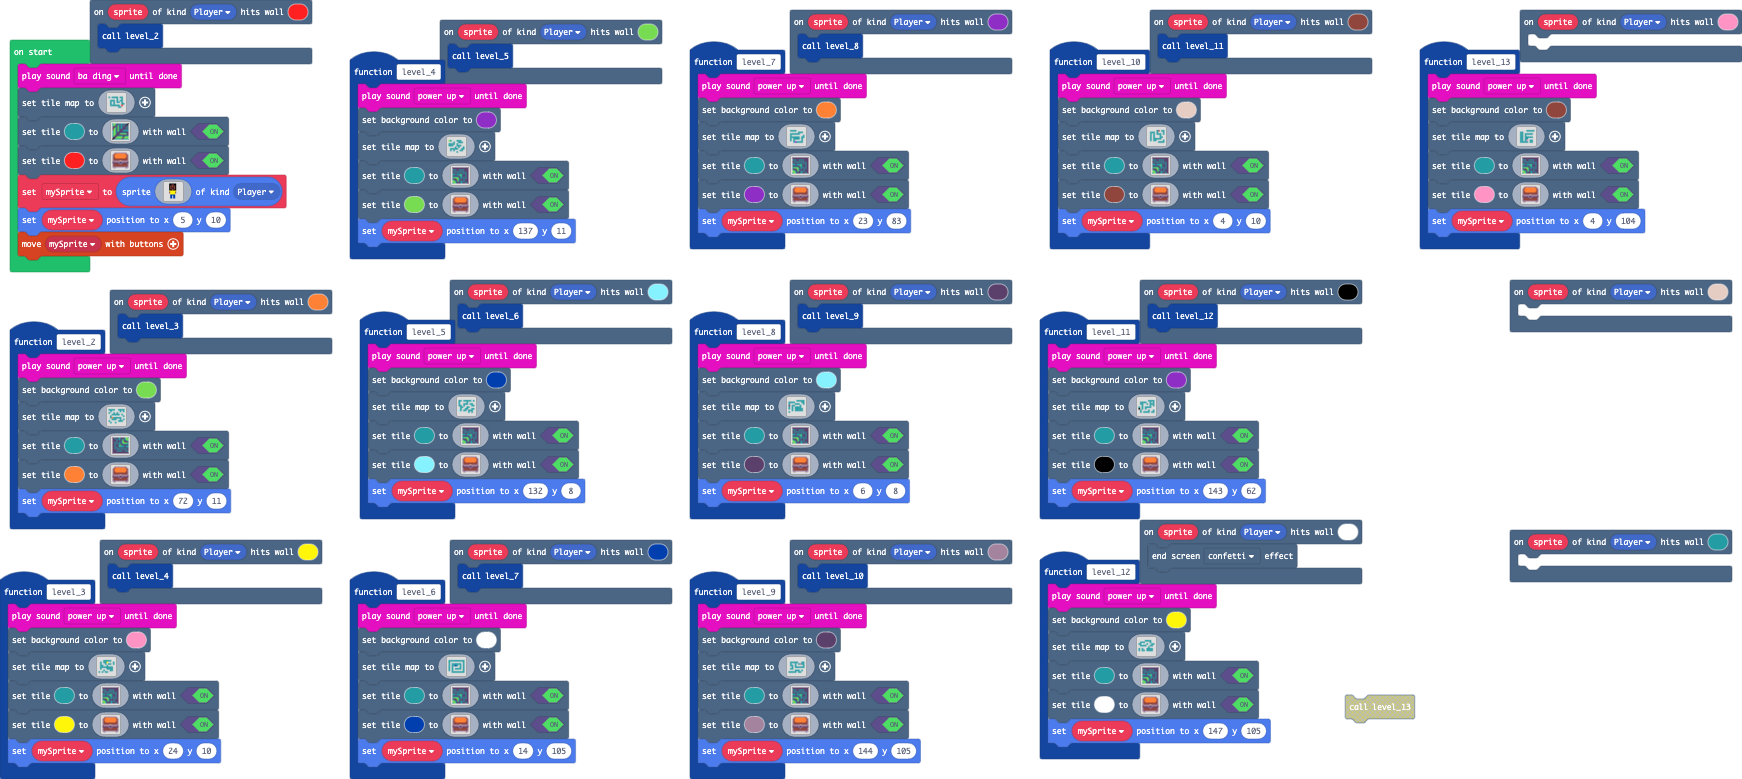
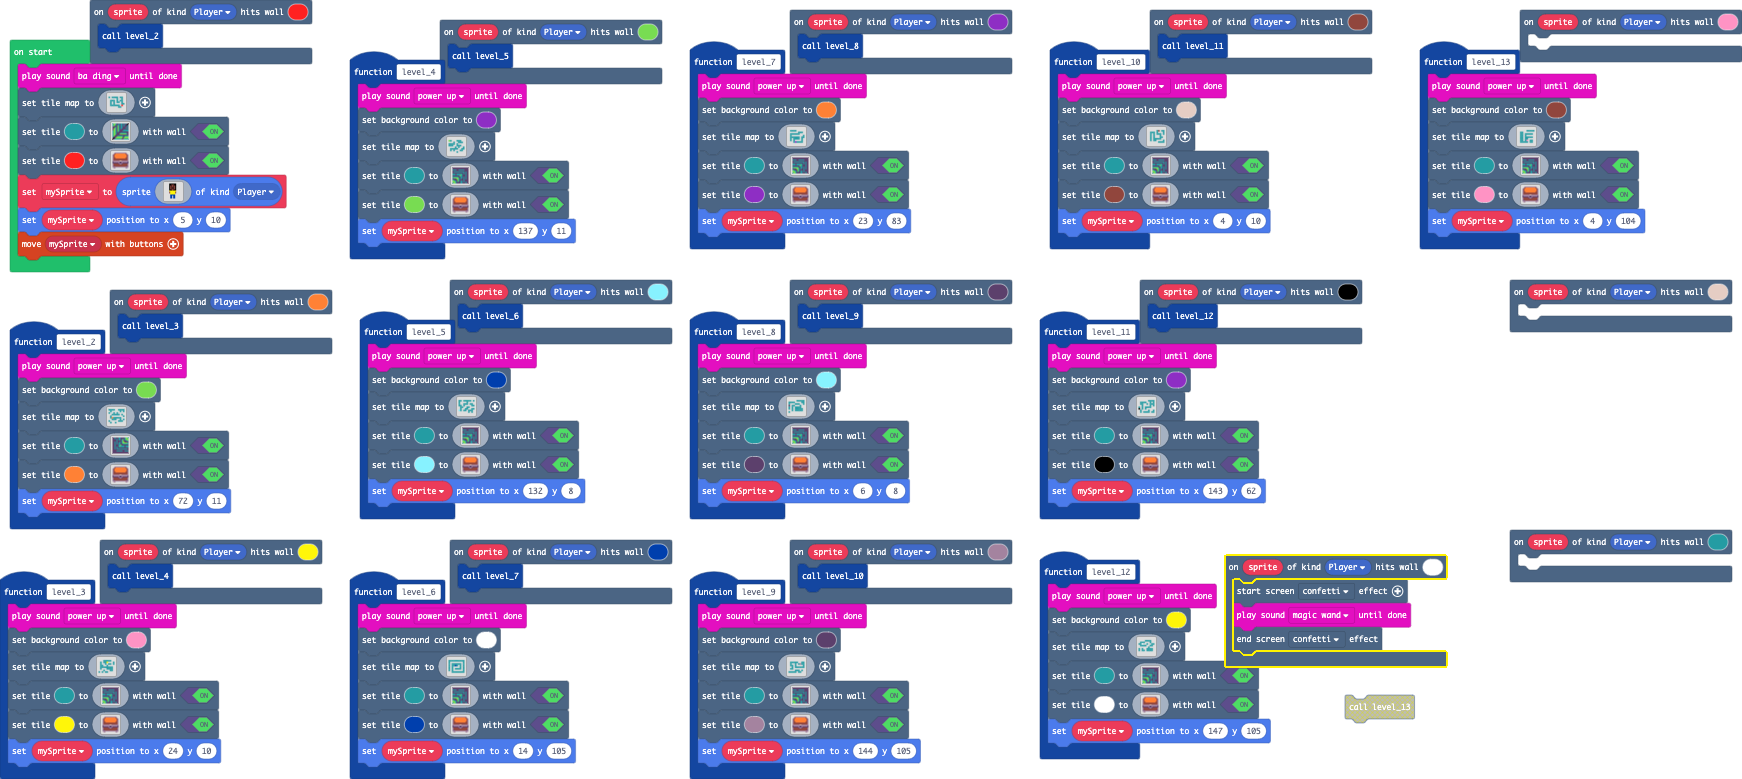
Update main.blocks, main.ts

Changed region(s): [[0.651, 0.647, 0.837, 0.8626]]

diff --git a/main.ts b/main.ts
@@ -382,6 +382,8 @@ scene.onHitTile(SpriteKind.Player, 2, function (sprite) {
     level_2()
 })
 scene.onHitTile(SpriteKind.Player, 1, function (sprite) {
+    effects.confetti.startScreenEffect()
+    music.magicWand.playUntilDone()
     effects.confetti.endScreenEffect()
 })
 function level_6 () {
